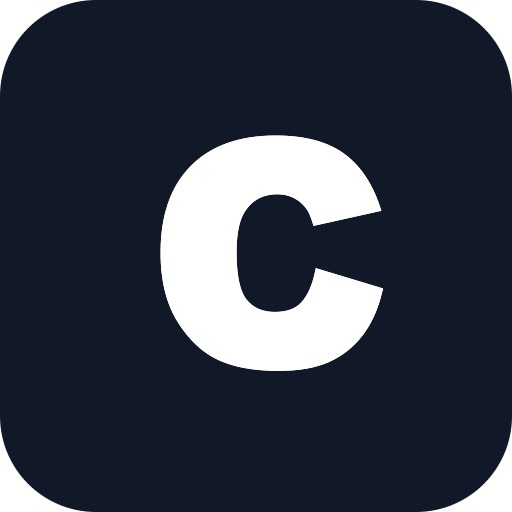
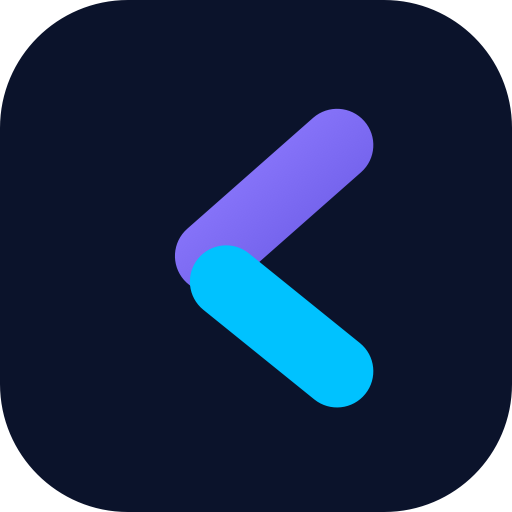
feat: paleta Komyx — navy, roxo e ciano; verde segue exclusivo do dinheiro
Troca da identidade verde-petróleo pela paleta da marca: fundo escuro navy
(#0B132B), roxo (#6C5CE7) como cor de marca e ação, ciano (#00C2FF) como
acento. A regra que assina o produto não muda: verde é só dinheiro que o
corretor recebe — o tom claro vira #00E6BB (que já estava na paleta da
marca) e o de fundo claro, #0BA678.

Nenhum claro é cinza puro: os neutros puxam para azul-lavanda, como antes
puxavam para verde.

Logo novo: K em roxo com a perna em ciano sobre tile navy, com o wordmark
minúsculo "komyx". Nos cabeçalhos escuros o tile inverte para branco e o K
mantém as cores. favicon.ico sai em favor de icon.svg, e os PNGs do PWA
foram regenerados com o mesmo desenho (192 via canvas, 512 via qlmanage a
partir do próprio SVG).

Confete atualizado para as cores da marca.

diff --git a/src/app/page.tsx b/src/app/page.tsx
@@ -131,8 +131,8 @@ export default function LandingPage() {
           className="pointer-events-none absolute inset-0 h-full w-full opacity-[0.15]">
           <defs>
             <linearGradient id="brilho-landing" x1="0" y1="1" x2="1" y2="0">
-              <stop offset="0%" stopColor="#3DDC97" stopOpacity="0" />
-              <stop offset="100%" stopColor="#3DDC97" stopOpacity="1" />
+              <stop offset="0%" stopColor="#00E6BB" stopOpacity="0" />
+              <stop offset="100%" stopColor="#00E6BB" stopOpacity="1" />
             </linearGradient>
           </defs>
           <path d="M0 190 C 120 185, 210 120, 280 70 S 370 10, 400 0" fill="none"
@@ -146,7 +146,7 @@ export default function LandingPage() {
 
         <div className="relative mx-auto max-w-6xl px-5 pb-20 pt-6 md:pb-28">
           <header className="flex items-center justify-between">
-            <Logo className="[&_span]:text-white [&_rect:first-child]:fill-white [&_rect:not(:first-child)]:fill-[#06291F]" />
+            <Logo className="[&_span]:text-white [&_rect]:fill-white" />
             {/* quem já é cliente precisa achar a porta de entrada de primeira:
                 fantasma sobre fundo escuro, ela quase não existia */}
             <Button asChild variant="outline"
@@ -176,7 +176,7 @@ export default function LandingPage() {
               </p>
               <div className="mt-8 flex flex-col items-center gap-3 sm:flex-row md:justify-start">
                 <Button asChild size="lg"
-                  className="h-12 w-full bg-money-claro px-8 text-base text-[#06291F] hover:bg-money-claro/90 sm:w-auto">
+                  className="h-12 w-full bg-money-claro px-8 text-base text-[#0B132B] hover:bg-money-claro/90 sm:w-auto">
                   <Link href="/cadastro">Criar conta grátis</Link>
                 </Button>
                 <Button asChild variant="ghost" size="lg"
@@ -453,7 +453,7 @@ export default function LandingPage() {
             calculada em menos de cinco minutos.
           </p>
           <Button asChild size="lg"
-            className="mt-8 h-12 bg-money-claro px-8 text-base text-[#06291F] hover:bg-money-claro/90">
+            className="mt-8 h-12 bg-money-claro px-8 text-base text-[#0B132B] hover:bg-money-claro/90">
             <Link href="/cadastro">Criar conta grátis</Link>
           </Button>
 

diff --git a/src/app/globals.css b/src/app/globals.css
@@ -37,6 +37,7 @@
   --color-primary: var(--primary);
   --color-money: var(--money);
   --color-money-soft: var(--money-soft);
+  --color-ciano: var(--ciano);
   --color-money-claro: var(--money-claro);
   --color-escuro: var(--escuro);
   --color-escuro-topo: var(--escuro-topo);
@@ -55,34 +56,39 @@
 }
 
 :root {
-  /* Paleta própria, com um viés verde-petróleo que assina o produto: nenhum
-     tom aqui é cinza puro. É o que separa "app de dinheiro" de "sistema". */
-  --background: #F4F7F6;
-  --foreground: #0A1F1A;
+  /* Paleta da marca Komyx: navy profundo como superfície, roxo como marca e
+     ação, ciano como acento — e o verde continua reservado para uma coisa só,
+     o dinheiro que o corretor recebe. Nenhum tom aqui é cinza puro: os claros
+     puxam para o azul-lavanda, é o que separa "app de dinheiro" de "sistema". */
+  --background: #F2F4FB;
+  --foreground: #0B132B;
   --card: #FFFFFF;
-  --card-foreground: #0A1F1A;
+  --card-foreground: #0B132B;
   --popover: #FFFFFF;
-  --popover-foreground: #0A1F1A;
-  --primary: #0A2A22;
+  --popover-foreground: #0B132B;
+  /* roxo da marca: botões e estados ativos que não são dinheiro */
+  --primary: #6C5CE7;
   --primary-foreground: #FFFFFF;
-  --money: #0E9E6E;
-  --money-soft: #E8F7F1;
+  --money: #0BA678;
+  --money-soft: #E4FAF2;
   /* verde que sobrevive sobre a superfície escura */
-  --money-claro: #3DDC97;
+  --money-claro: #00E6BB;
+  /* acento ciano: gradientes e detalhes, nunca texto corrido */
+  --ciano: #00C2FF;
   /* a superfície escura é o "extrato": onde o dinheiro do corretor mora */
-  --escuro: #06291F;
-  --escuro-topo: #0B4030;
-  --escuro-texto: #A7C6BB;
-  --secondary: #EDF2F0;
-  --secondary-foreground: #0A2A22;
-  --muted: #EDF2F0;
-  --muted-foreground: #5E706B;
-  --accent: #EDF2F0;
-  --accent-foreground: #0A2A22;
+  --escuro: #0B132B;
+  --escuro-topo: #1A2350;
+  --escuro-texto: #A6AFD3;
+  --secondary: #EAEDF8;
+  --secondary-foreground: #1D2440;
+  --muted: #EAEDF8;
+  --muted-foreground: #5F6784;
+  --accent: #EAEDF8;
+  --accent-foreground: #1D2440;
   --destructive: #D6453D;
-  --border: #E2E9E6;
-  --input: #DDE5E2;
-  --ring: #0E9E6E;
+  --border: #DFE3F0;
+  --input: #D9DEEE;
+  --ring: #6C5CE7;
   --chart-1: oklch(0.87 0 0);
   --chart-2: oklch(0.556 0 0);
   --chart-3: oklch(0.439 0 0);

diff --git a/src/components/logo.tsx b/src/components/logo.tsx
@@ -1,19 +1,27 @@
 import { cn } from '@/lib/utils'
 
 /**
- * Marca do Komyx: símbolo neutro em grafite. O verde nunca aparece aqui —
- * na interface ele significa dinheiro, e só.
+ * Marca do Komyx: o K em roxo (marca) com a perna em ciano (acento), sobre um
+ * tile navy. O verde nunca aparece aqui — na interface ele significa
+ * dinheiro, e só.
  *
- * O símbolo são duas barras que sobem, sugerindo evolução financeira sem
- * recorrer a um gráfico literal. É o mesmo desenho dos ícones PWA em public/
- * — se um dia mudar, os ícones precisam ser regenerados juntos.
+ * Mesmo desenho dos ícones PWA em public/ e do icon.svg — se mudar aqui,
+ * regenerar os três juntos (o menu de dev não cobre isso; ver commit que os
+ * gerou).
  */
 export function LogoSimbolo({ className }: { className?: string }) {
   return (
     <svg viewBox="0 0 24 24" aria-hidden className={cn('size-6', className)}>
+      <defs>
+        <linearGradient id="k-roxo" x1="0" y1="0" x2="1" y2="1">
+          <stop offset="0%" stopColor="#8F7BFF" />
+          <stop offset="100%" stopColor="#6C5CE7" />
+        </linearGradient>
+      </defs>
       <rect width="24" height="24" rx="6" className="fill-foreground" />
-      <rect x="7" y="12" width="3.2" height="6" rx="1.6" className="fill-background" />
-      <rect x="13.8" y="6" width="3.2" height="12" rx="1.6" className="fill-background" />
+      <path d="M8.3 6.6v10.8" fill="none" stroke="url(#k-roxo)" strokeWidth="3.4" strokeLinecap="round" />
+      <path d="M15.8 6.8l-5.9 5.2" fill="none" stroke="url(#k-roxo)" strokeWidth="3.4" strokeLinecap="round" />
+      <path d="M10.6 13.2l5.2 4.2" fill="none" stroke="#00C2FF" strokeWidth="3.4" strokeLinecap="round" />
     </svg>
   )
 }
@@ -26,7 +34,7 @@ export function Logo({ className, mostrarNome = true }: {
     <span className={cn('inline-flex items-center gap-2', className)}>
       <LogoSimbolo />
       {mostrarNome && (
-        <span className="text-base font-bold tracking-tight">Komyx</span>
+        <span className="text-base font-bold tracking-tight">komyx</span>
       )}
     </span>
   )

diff --git a/src/components/landing/amostras.tsx b/src/components/landing/amostras.tsx
@@ -21,7 +21,7 @@ import { NumeroAnimado } from '@/components/numero-animado'
  */
 export function MolduraCelular() {
   return (
-    <div className="mx-auto w-[320px] rounded-[2.8rem] border border-white/15 bg-[#0A1512] p-2.5 shadow-2xl shadow-black/50 md:w-[360px]">
+    <div className="mx-auto w-[320px] rounded-[2.8rem] border border-white/15 bg-[#070D1F] p-2.5 shadow-2xl shadow-black/50 md:w-[360px]">
       {/* proporção de aparelho de verdade: o que passar disso fica cortado,
           como ficaria na tela do corretor antes de ele rolar */}
       <div className="flex aspect-[9/19.5] flex-col overflow-hidden rounded-[2.1rem] bg-background">
@@ -43,7 +43,7 @@ export function MolduraCelular() {
           <p className="mt-1.5 text-[0.65rem] text-escuro-texto">
             em 6 dias <span className="text-white/40">· 10 de setembro</span>
           </p>
-          <div className="mt-4 rounded-lg bg-money-claro py-2 text-center text-xs font-medium text-[#06291F]">
+          <div className="mt-4 rounded-lg bg-money-claro py-2 text-center text-xs font-medium text-[#0B132B]">
             + Nova venda
           </div>
         </div>

diff --git a/src/components/hero-dinheiro.tsx b/src/components/hero-dinheiro.tsx
@@ -57,8 +57,8 @@ export function HeroDinheiro({ nome, competencia, pagamento, hoje, foraDoAtual, 
       >
         <defs>
           <linearGradient id="brilho" x1="0" y1="1" x2="1" y2="0">
-            <stop offset="0%" stopColor="#3DDC97" stopOpacity="0" />
-            <stop offset="100%" stopColor="#3DDC97" stopOpacity="1" />
+            <stop offset="0%" stopColor="#00E6BB" stopOpacity="0" />
+            <stop offset="100%" stopColor="#00E6BB" stopOpacity="1" />
           </linearGradient>
         </defs>
         <path d="M0 190 C 120 185, 210 120, 280 70 S 370 10, 400 0" fill="none"
@@ -120,7 +120,7 @@ export function HeroDinheiro({ nome, competencia, pagamento, hoje, foraDoAtual, 
 
         <div className="mt-5 flex items-center gap-2">
           <Button asChild size="lg"
-            className="flex-1 bg-money-claro text-[#06291F] hover:bg-money-claro/90 md:flex-none">
+            className="flex-1 bg-money-claro text-[#0B132B] hover:bg-money-claro/90 md:flex-none">
             <Link href="/app/vendas/nova"><Plus size={18} /> Nova venda</Link>
           </Button>
           {foraDoAtual && (

diff --git a/src/app/(auth)/cadastro/page.tsx b/src/app/(auth)/cadastro/page.tsx
@@ -11,7 +11,7 @@ export default async function CadastroPage({ searchParams }: { searchParams: Pro
     <main className="flex min-h-dvh flex-col bg-escuro">
       <div className="flex flex-1 flex-col justify-center px-6 py-10 text-white">
         <div className="mx-auto w-full max-w-sm entra">
-          <Logo className="[&_span]:text-white [&_rect:first-child]:fill-white [&_rect:not(:first-child)]:fill-[#06291F]" />
+          <Logo className="[&_span]:text-white [&_rect]:fill-white" />
           <h1 className="mt-8 text-3xl font-bold leading-tight tracking-tight">
             Nunca mais calcule<br />comissão no Excel.
           </h1>

diff --git a/src/app/(auth)/login/page.tsx b/src/app/(auth)/login/page.tsx
@@ -11,7 +11,7 @@ export default async function LoginPage({ searchParams }: { searchParams: Promis
     <main className="flex min-h-dvh flex-col bg-escuro">
       <div className="flex flex-1 flex-col justify-center px-6 py-10 text-white">
         <div className="mx-auto w-full max-w-sm entra">
-          <Logo className="[&_span]:text-white [&_rect:first-child]:fill-white [&_rect:not(:first-child)]:fill-[#06291F]" />
+          <Logo className="[&_span]:text-white [&_rect]:fill-white" />
           <h1 className="mt-8 text-3xl font-bold leading-tight tracking-tight">
             Seu dinheiro,<br />sem planilha.
           </h1>

diff --git a/src/app/manifest.ts b/src/app/manifest.ts
@@ -5,7 +5,7 @@ export default function manifest(): MetadataRoute.Manifest {
     name: 'Komyx', short_name: 'Komyx',
     description: 'Gestão financeira para corretores de consórcio.',
     start_url: '/app', display: 'standalone',
-    background_color: '#F8FAFC', theme_color: '#FFFFFF',
+    background_color: '#F2F4FB', theme_color: '#FFFFFF',
     icons: [
       { src: '/icon-192.png', sizes: '192x192', type: 'image/png' },
       { src: '/icon-512.png', sizes: '512x512', type: 'image/png' },

diff --git a/src/components/confete.tsx b/src/components/confete.tsx
@@ -1,7 +1,8 @@
 'use client'
 import { useEffect, useState } from 'react'
 
-const CORES = ['#0E9E6E', '#3DDC97', '#0B4030', '#F4C95D', '#FFFFFF']
+/* a festa usa a paleta da marca: verde do dinheiro, roxo, ciano e branco */
+const CORES = ['#0BA678', '#00E6BB', '#6C5CE7', '#00C2FF', '#FFFFFF']
 const PECAS = 90
 const DURACAO_MS = 4200
 
